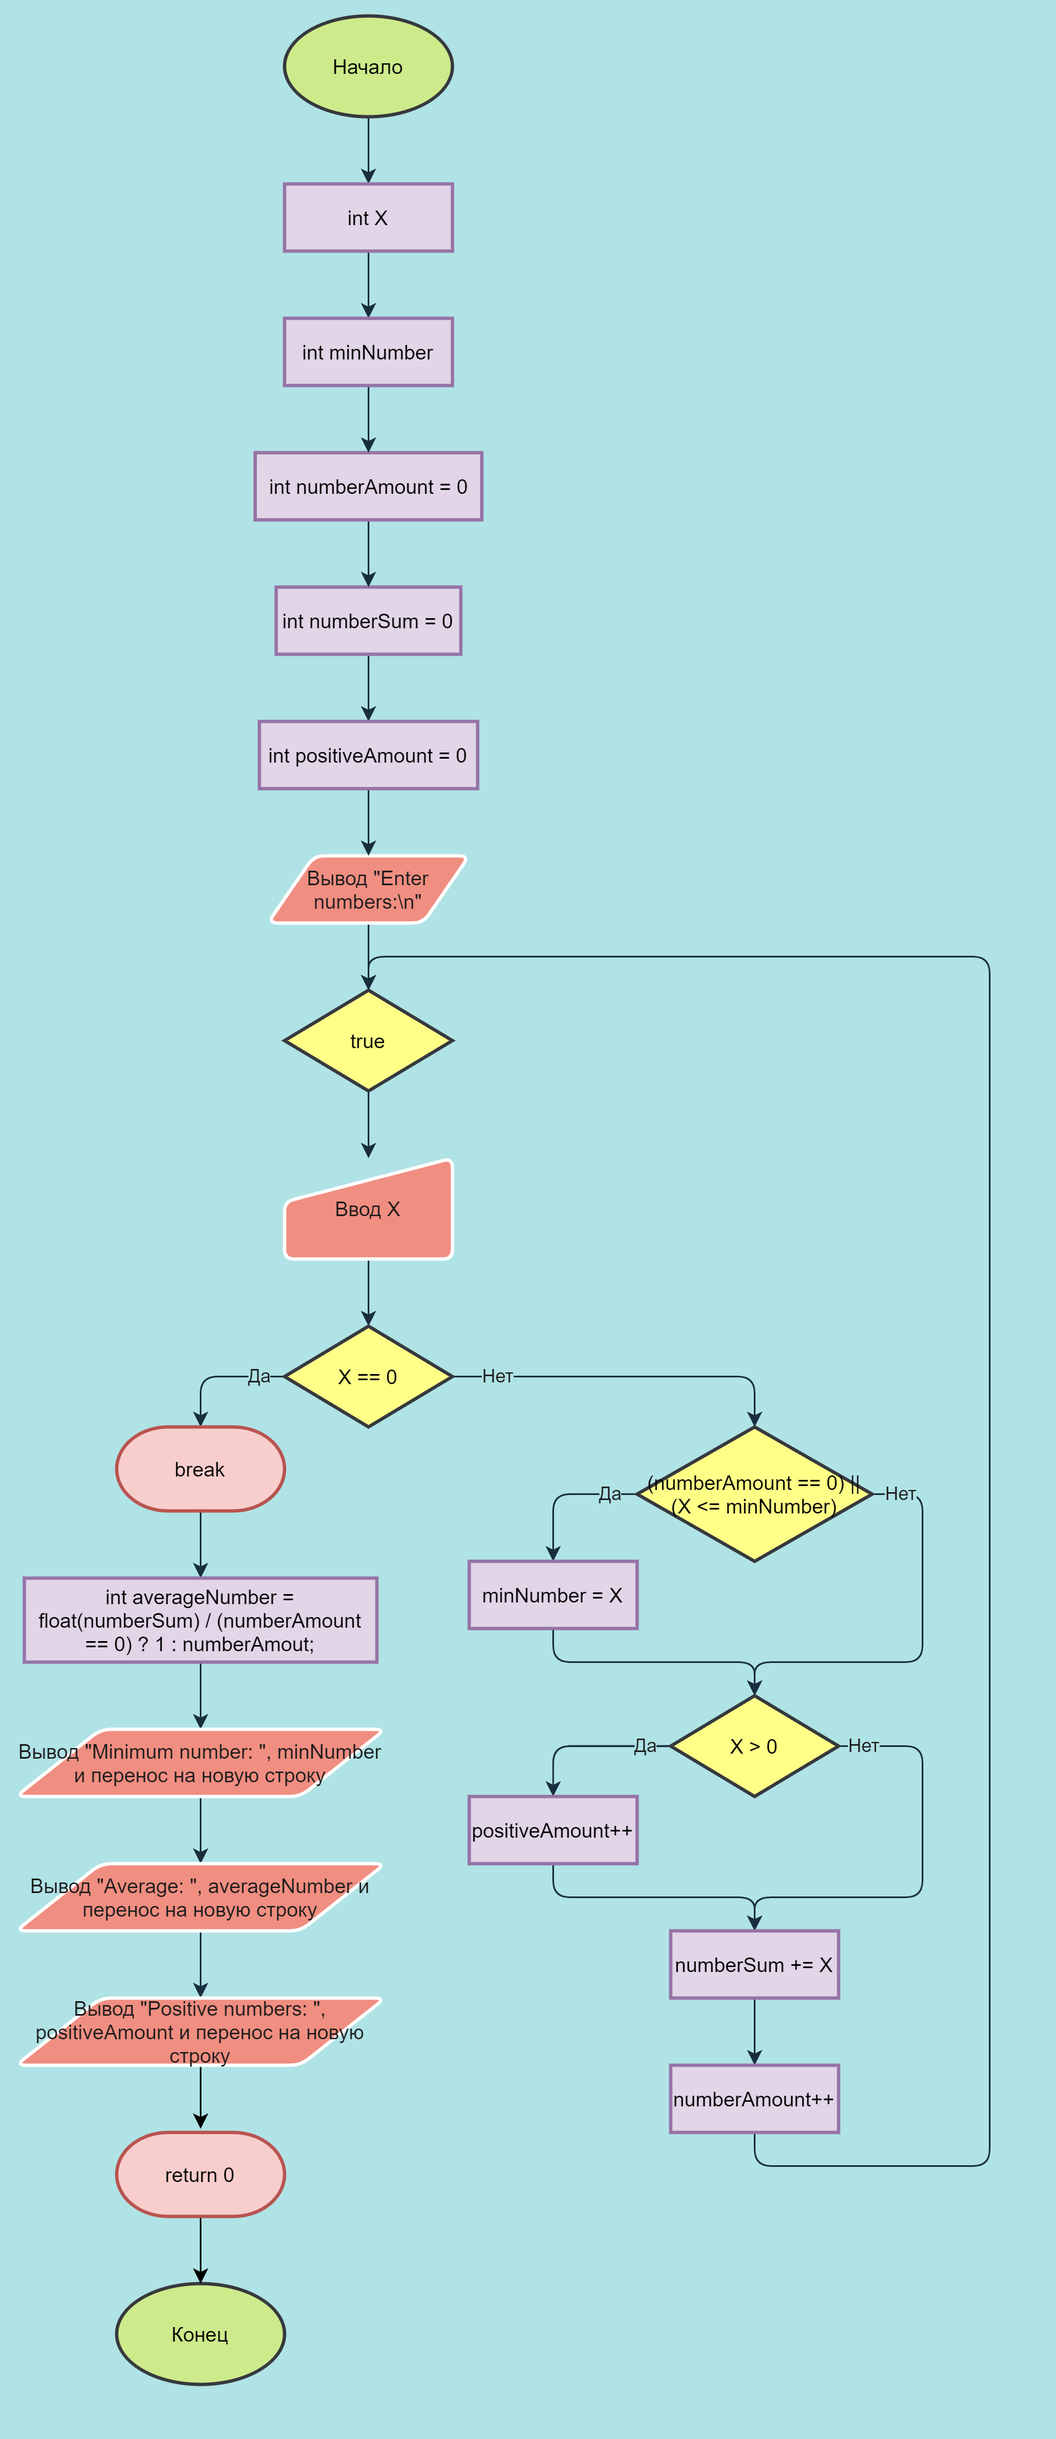
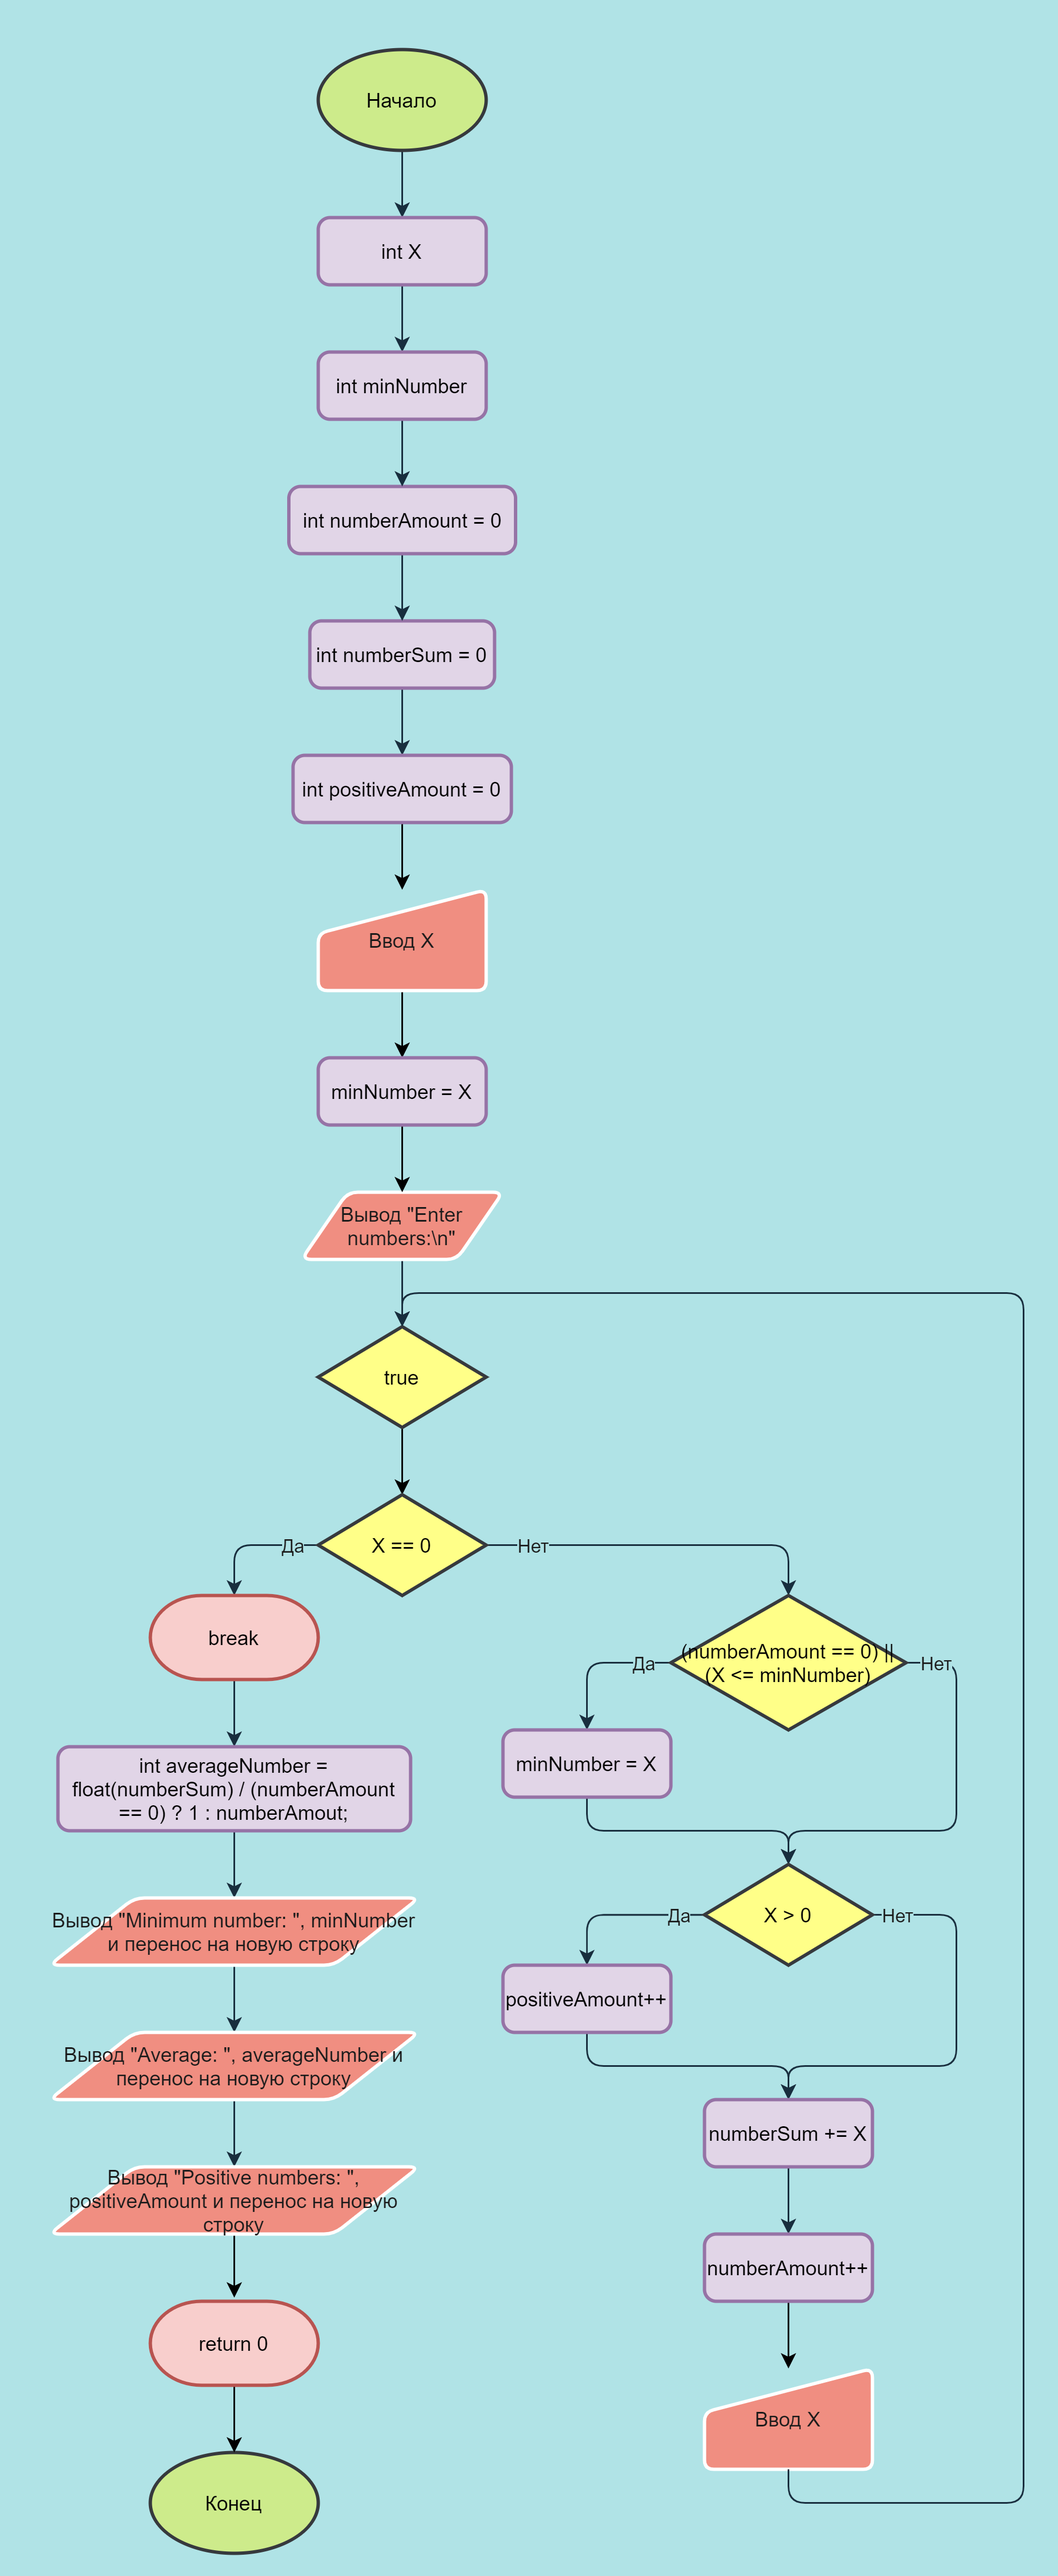
Fix another mbahmbah

Changed region(s): [[0.0, 0.0, 0.8914, 0.9991]]

diff --git a/Lab2/main.cpp b/Lab2/main.cpp
@@ -26,13 +26,14 @@ int main()
 
     cout << "Enter numbers:\n";
 
-    while(true)
-    {
-        cin >> X;
+    cin >> X;
+    minNumber = X;
 
+    while (true)
+    {
         if (X == 0) break;
 
-        if ((numberAmount == 0) || (X <= minNumber))
+        if (X <= minNumber)
         {
             minNumber = X;
         }
@@ -44,6 +45,8 @@ int main()
 
         numberSum += X;
         numberAmount++;
+
+        cin >> X;
     }
 
     int averageNumber = float(numberSum) / (numberAmount == 0) ? 1 : numberAmount;

diff --git a/Lab1/main.cpp b/Lab1/main.cpp
@@ -12,7 +12,7 @@ using namespace std;
 int main()
 {
     float X, Y;
-    while(true)
+    while (true)
     {
         cout << "Enter coordinates:\n";
         cin >> X >> Y;
